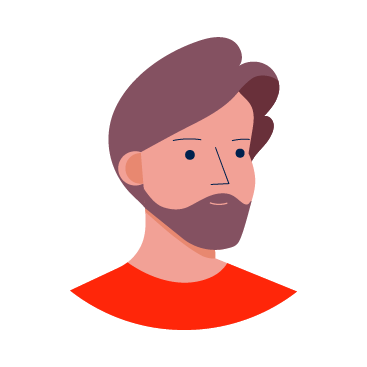
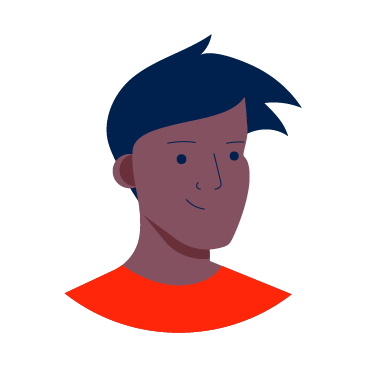
all functionality works, starting to work on styling

Changed region(s): [[0.2698, 0.0899, 0.8392, 0.8392], [0.1798, 0.7793, 0.6594, 0.9292]]

diff --git a/rockPaperScissors.js b/rockPaperScissors.js
@@ -1,4 +1,3 @@
-
 ////////////////////////////////Start Screen//////////////////////////////////////////////
 // debugger
 // Start screen variables.
@@ -31,6 +30,8 @@ function appendPlayer(){
     else{
         userAvatarImg.src = "./imgs/male.png"
     }
+    // makes sure user made selection1
+    computerAvatarImg.classList.add("start-game1")
 }
 
 //////////////////////////Computer Avatar Selection/////////////////////////////
@@ -42,23 +43,25 @@ laylaComputer.addEventListener("click", appendComputer);
 
 function appendComputer(){
     if (this.classList.contains("john-computer")){
-        computerAvatarImg.src = "./imgs/john.png"
+        computerAvatarImg.src = "./imgs/johnLeft.png"
         computerAvatarImg.classList.add("john-computer")
         computerAvatarImg.classList.remove("lucy-computer")
         computerAvatarImg.classList.remove("layla-computer")
     }
     else if (this.classList.contains("lucy-computer")){
-        computerAvatarImg.src = "./imgs/lucy.png"
-        computerAvatarImg.classList=("lucy-computer")
+        computerAvatarImg.src = "./imgs/lucyLeft.png"
+        computerAvatarImg.classList.add("lucy-computer")
         computerAvatarImg.classList.remove("john-computer")
         computerAvatarImg.classList.remove("layla-computer")
     }
     else{
-        computerAvatarImg.src = "./imgs/layla.png"
-        computerAvatarImg.classList=("layla-computer")
+        computerAvatarImg.src = "./imgs/laylaLeft.png"
+        computerAvatarImg.classList.add("layla-computer")
         computerAvatarImg.classList.remove("john-computer")
         computerAvatarImg.classList.remove("lucy-computer")
     }
+    // makes sure user made selection2
+    computerAvatarImg.classList.add("start-game2")
 }
 
 
@@ -70,8 +73,7 @@ startGameBtn.addEventListener("click",startGame);
 
 // Transitions to the Game Screen.
 function startGame(){
-    if (startScreen.classList.contains("display")){
-        // implementScene()
+    if (startScreen.classList.contains("display") && computerAvatarImg.classList.contains("start-game1")&& computerAvatarImg.classList.contains("start-game2")){
         startScreen.classList.remove("display")
         showContent.classList.add("display")
     }
@@ -79,38 +81,6 @@ function startGame(){
 
 
 /////////////////Game Screen///////////////////////////////////
-
-computerAvatarImg = document.getElementById("computer-avatar-img");
-
-
-
-// let computerArray= []
-
-// if(computerAvatarImg.id == "john-Computer"){
-//     console.log("y")
-// } 
-
-// if (!(startScreen.classList.contains("display"))){
-//     let computerArray= []
-//     computerArray = computerArrayFunc()
-//     console.log(computerArray)
-
-//         function computerArrayFunc(){
-//         let generatedArray= [];
-//         if (computerAvatarImg.classList.contains("john-computer")){
-//             console.log("1")
-//             return computerArray = charactersObject.john;
-//         }
-//         else if (computerAvatarImg.classList.contains("lucy-computer")){
-//             console.log("2")
-//             return computerArray = charactersObject.lucy;
-//         }
-//         else {
-//             console.log("3")
-//             return computerArray = charactersObject.layla;
-//         }
-//     }
-// }
 
 
 // Game screen variable deceleration.
@@ -165,10 +135,10 @@ generateSceneBtn.addEventListener("click",implementScene);
 function implementScene(){
     if (resultDiv.classList.contains("result-showing")){
         let newScene = randomIndexgenerator();
-
+        
         if (newScene == 0){
             sceneContainer.textContent="Text";
-            sceneContainer.classList="scene-of-text"; 
+            sceneContainer.classList="scene-of-text";
         }
         else if (newScene== 1){
             sceneContainer.textContent="Image";
@@ -178,7 +148,9 @@ function implementScene(){
             sceneContainer.textContent="Video";
             sceneContainer.classList="scene-of-video";
         }
+        // These two lines remove the last result from the div, and add class to enable user to react 
         resultDiv.textContent="";
+        resultDiv.classList.remove("result-showing");
     }
 }
 
@@ -194,6 +166,7 @@ const charactersObject = {
 // Is activated when user presses one of his reaction btns.
 // This function determines who won the round.
 function playRound(){
+    debugger
     if (!resultDiv.classList.contains("result-showing")){
     
         // Gets the random index generated in randomIndexGenerator

diff --git a/index.html b/index.html
@@ -12,15 +12,17 @@
 
 <body>
     <div id="start-screen" class="screen display" >
-        <div class="container">
-            <div id="user-character">
-                <button id="male-user" class="male-user"><img src="./imgs/male.png" alt="Male"></button>
-                <button id="female-user" class="female-user"><img src="./imgs/female.png" alt="Female"></button>
-            </div>
-            <div id="cumputer-character">
-                <button id="john-computer" class="john-computer"><img src="./imgs/john.png" alt="John"></button>
-                <button id="lucy-computer" class="lucy-computer"><img src="./imgs/lucy.png" alt="Lucy"></button>
-                <button id="layla-computer" class="layla-computer"><img src="./imgs/layla.png" alt="Layla"></button>
+        <div class="container start-screen">
+            <div id="character-selection-scrn">
+                <div id="user-character">
+                    <button id="male-user" class="btn-hide male-user"><img class="start-hover" src="./imgs/male.png" alt="Male"></button>
+                    <button id="female-user" class="btn-hide female-user" ><img class="start-hover" src="./imgs/female.png" alt="Female"></button>
+                </div>
+                <div id="cumputer-character">
+                    <button id="john-computer" class="btn-hide john-computer"><img class="start-hover computer-img" src="./imgs/johnLeft.png" alt="John"></button>
+                    <button id="lucy-computer" class="btn-hide lucy-computer"><img class="start-hover computer-img" src="./imgs/lucyLeft.png" alt="Lucy"></button>
+                    <button id="layla-computer" class="btn-hide layla-computer"><img class="start-hover computer-img" src="./imgs/laylaLeft.png" alt="Layla"></button>
+                </div>
             </div>
             <button id="start-game-btn">Start Game</button>
         </div>

diff --git a/style.css b/style.css
@@ -1,3 +1,36 @@
+body {
+    /* width: 100vw; */
+    margin: 0;
+    padding: 0;
+    background-color: #FF737C;
+}
+
+.container{
+    width: 80%;
+    /* height: 80%; */
+    margin: auto;
+}
+
+#start-screen{
+    margin: auto;
+}
+.container.start-screen{
+    display: flex;
+    justify-content: center;
+    align-items: center;
+}
+#character-selection-scrn{
+    display: flex;
+    justify-content: center;
+    align-items: center;
+}
+
+
+
+.container.start-screen{
+    background-color: #ffd2a2;
+}
+
 #result, #runningScore, #winner {
     background-color: antiquewhite;
     border: solid black 5px;
@@ -6,6 +39,32 @@
     padding:5px;
 }
 
+
+button.btn-hide {
+    
+    background-color: #ffd2a2;
+    border: none;
+    padding: 15px 32px;
+    text-align: center;
+    text-decoration: none;
+    display: inline-block;
+    font-size: 16px;
+  } 
+
+
+
+
+
+.start-hover:hover{
+    opacity: 0.5;
+    
+} 
+
+.start-hover:active{
+    opacity: 0.5;
+    /* background-color: #3e8e41; */
+    transform: translateY(4px);
+}
 
 
 #start-screen.screen.display{
